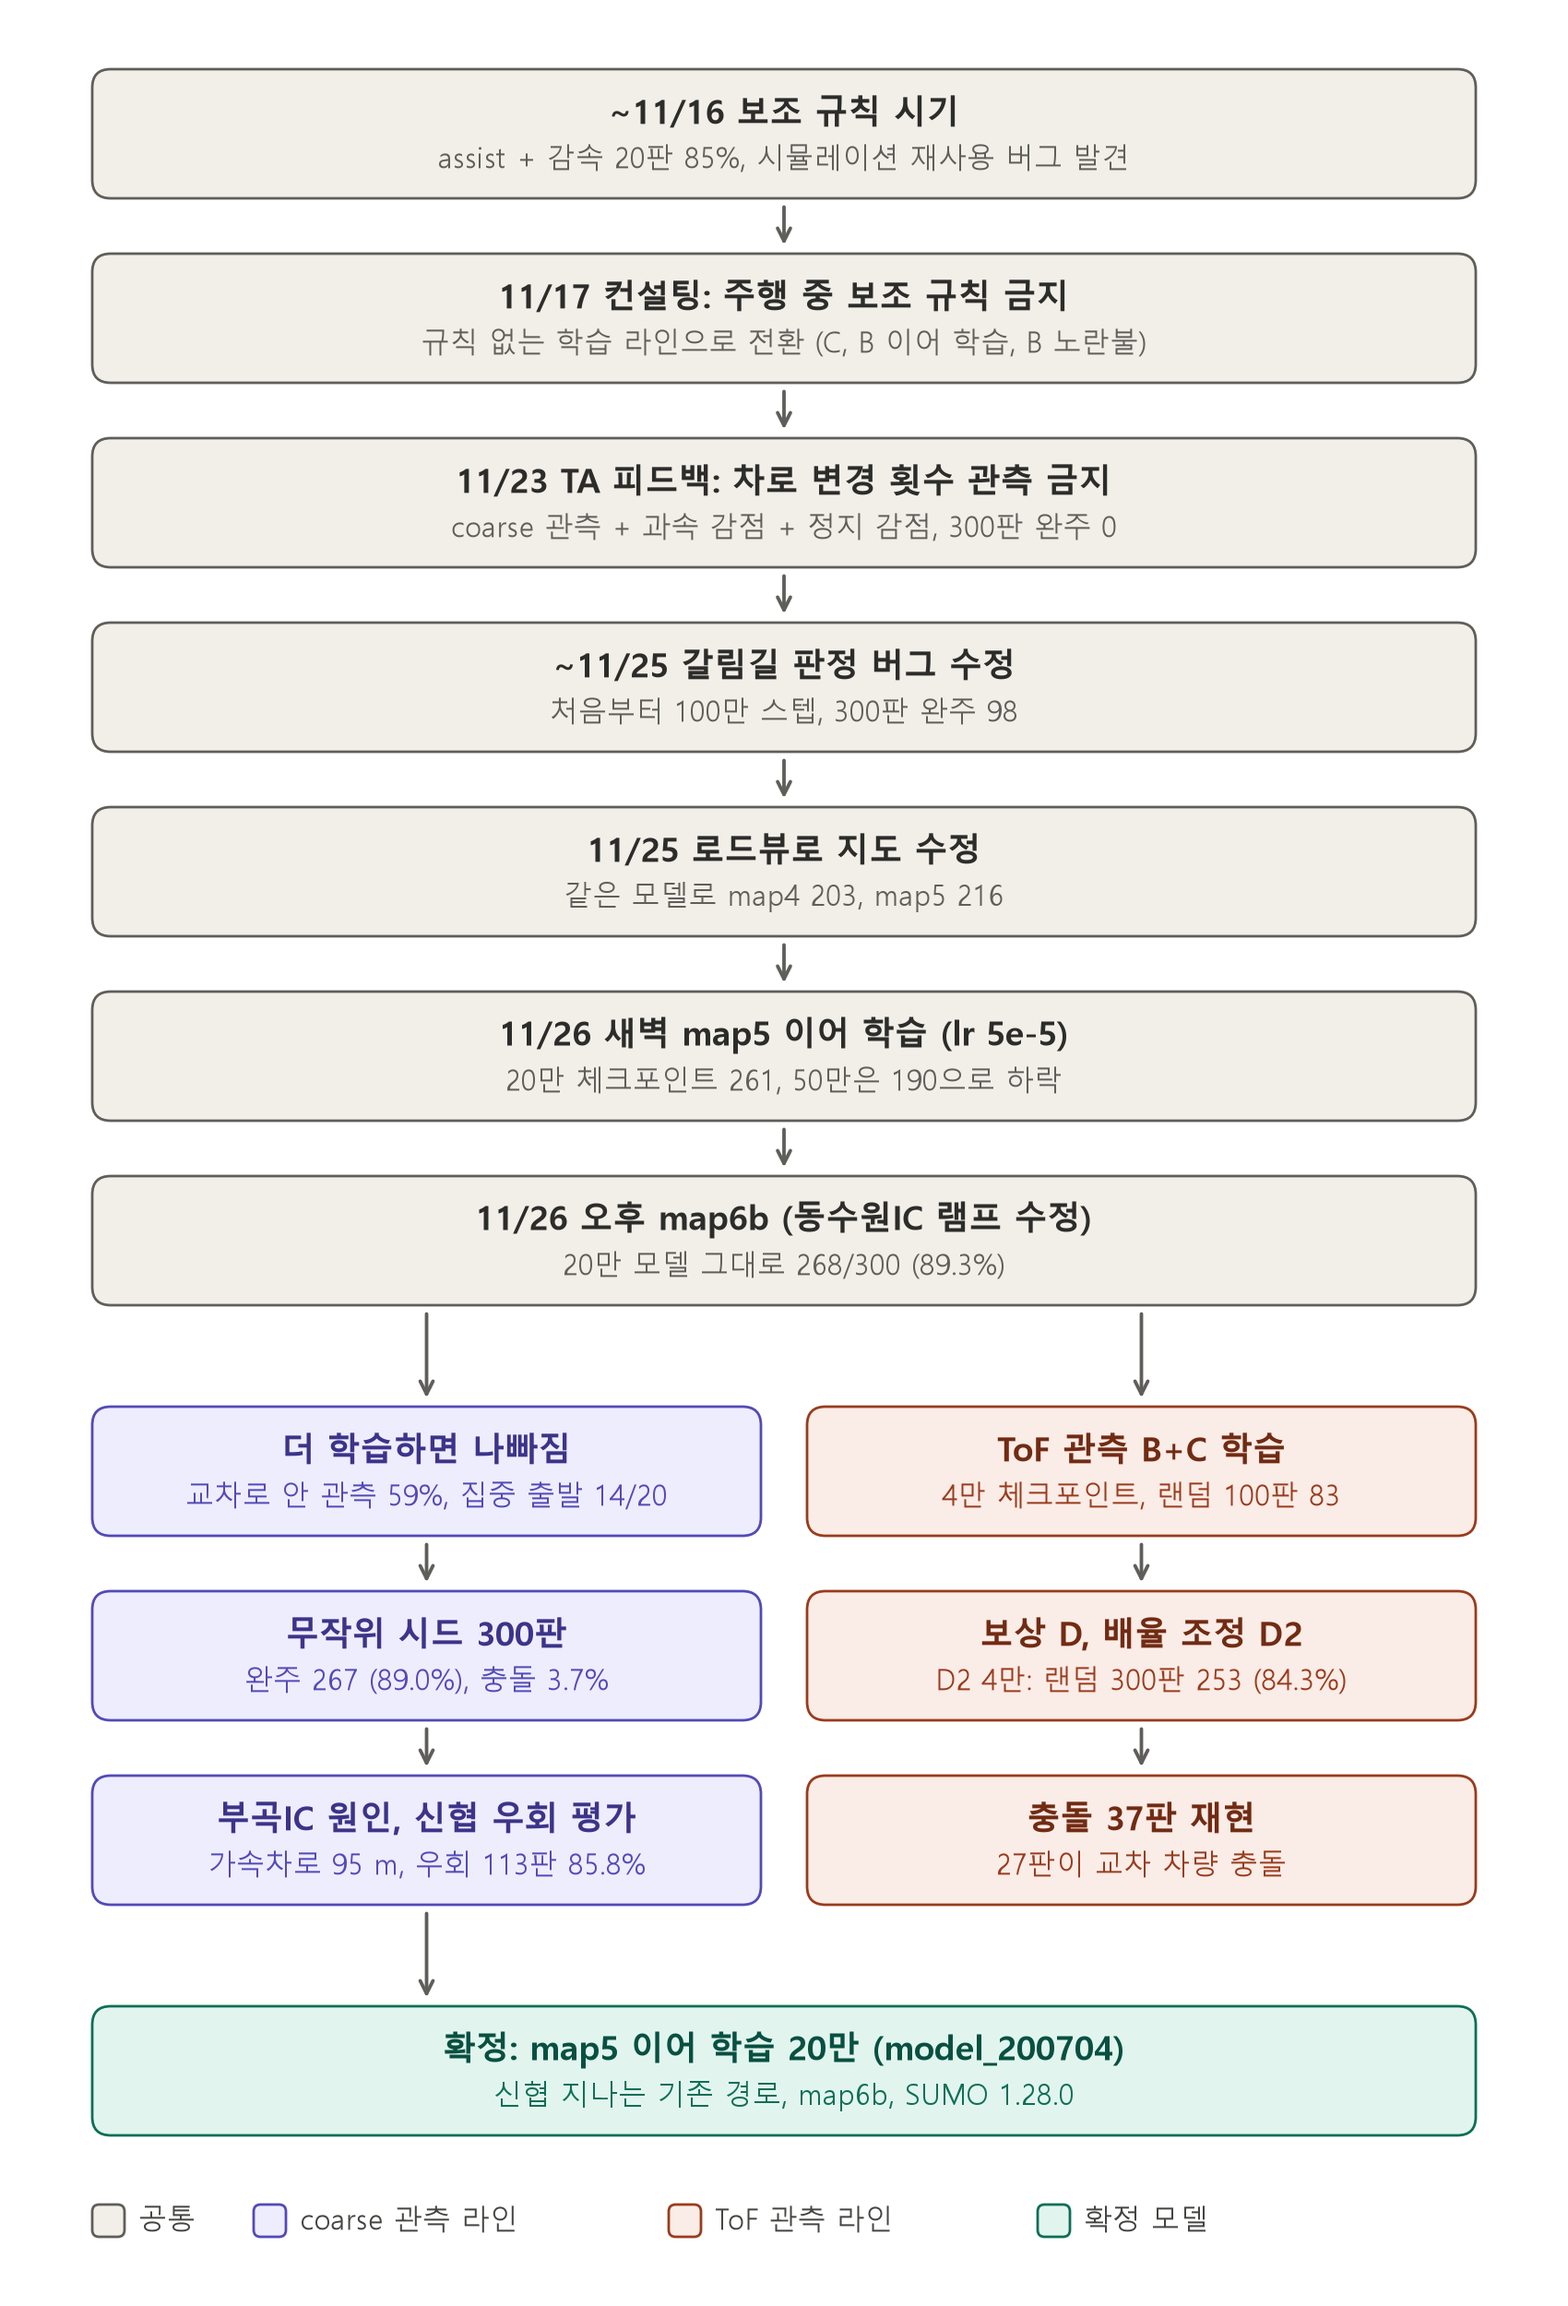
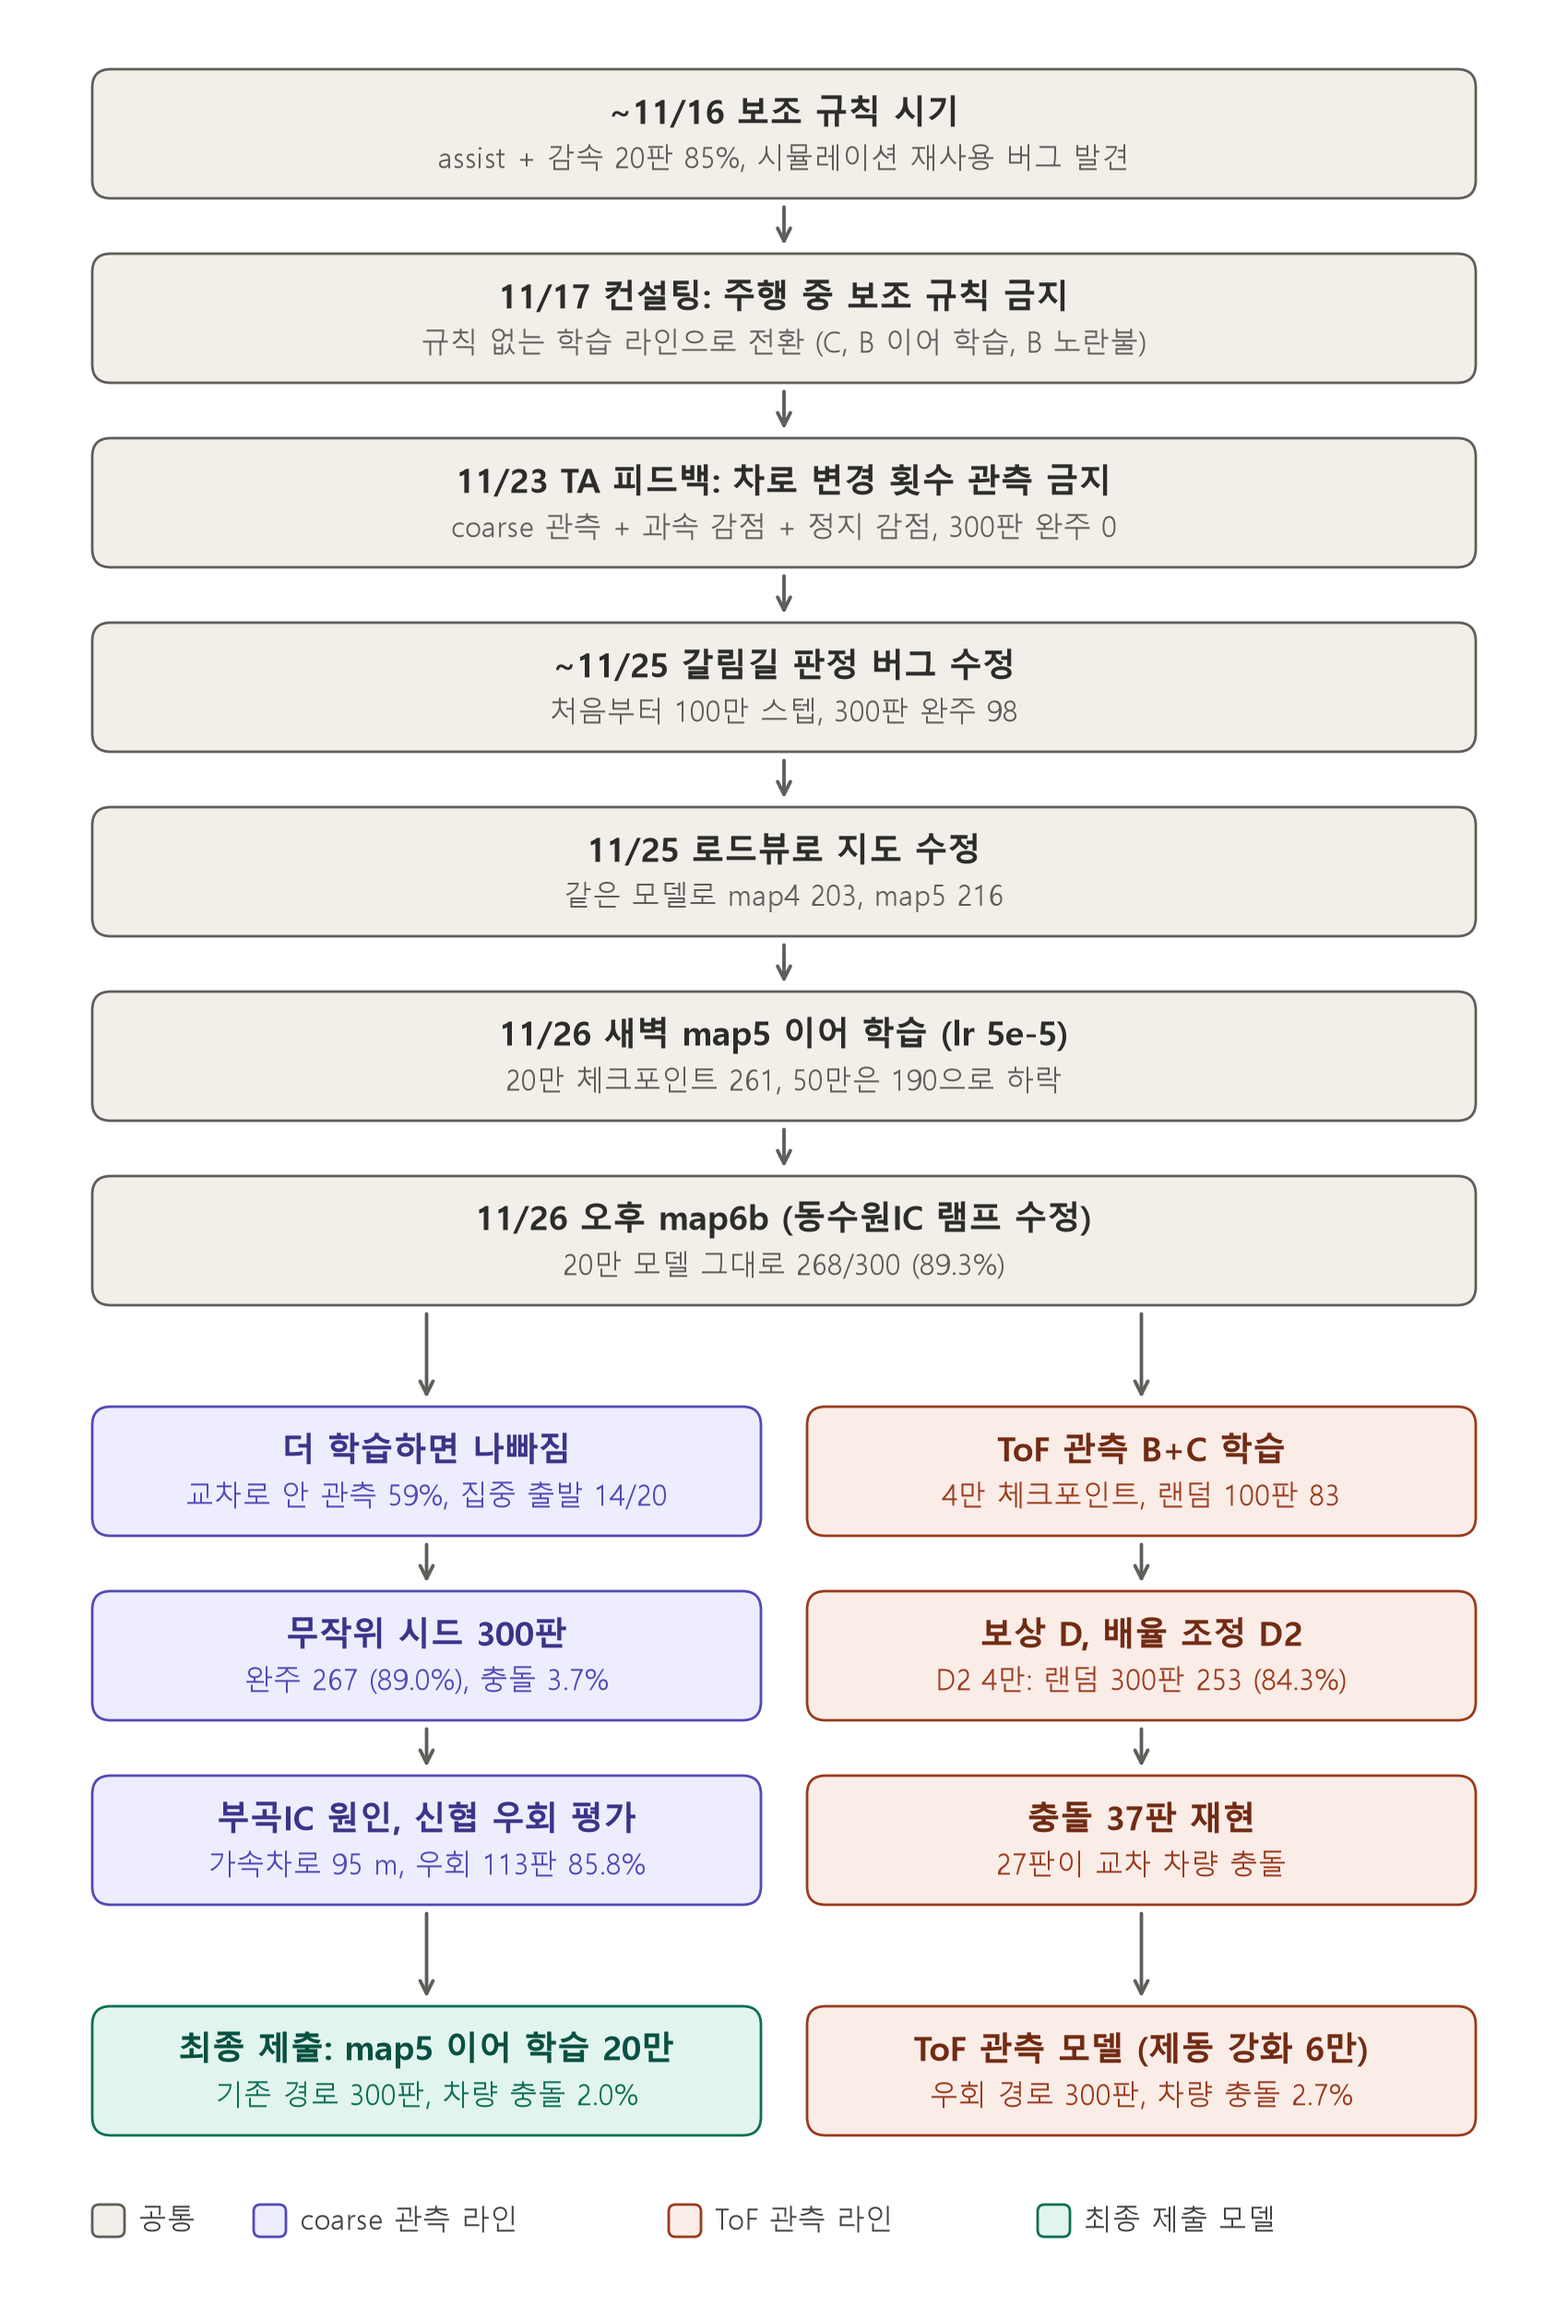
docs: ToF 관측 모델 결과를 방법 칸과 실험 흐름도에 추가
우회 경로 무작위 시드 300판: 완주 278, 차량 충돌 8 (2.7%).
최종 제출 모델과 조건이 다르다는 점을 함께 적음.

Changed region(s): [[0.1247, 0.8424, 0.9665, 0.9672]]

diff --git a/docs/index.html b/docs/index.html
@@ -265,7 +265,7 @@ figure.card img{border-radius:8px;background:#fff}
     <div class="grid g2" style="margin-top:18px">
       <figure class="card">
         <img src="img/flow.png" alt="11월 13일부터 26일까지의 실험 흐름. 보조 규칙 시기, 규칙 없는 학습 전환, 관측 변경, 갈림길 판정 수정, 지도 수정, 이어 학습을 거쳐 확정 모델에 이른다." loading="lazy">
-        <figcaption>실험 흐름. 숫자는 같은 시드 300판 중 완주한 판 수입니다. ToF 관측 라인은 별도로 실험했고 최종 모델로는 쓰지 않았습니다.</figcaption>
+        <figcaption>실험 흐름. 숫자는 300판 중 완주한 판 수입니다. 관측을 두 가지로 설계해 각각 학습했고, 제출한 코드와 데이터는 coarse 관측 모델입니다.</figcaption>
       </figure>
       <div class="card tbl">
         <h3>같은 모델, 지도만 고쳤을 때</h3>
@@ -281,6 +281,11 @@ figure.card img{border-radius:8px;background:#fff}
         </table>
         <p style="font-size:13px;color:var(--muted);margin-top:10px">학습용 PC(SUMO 1.27.1)에서 잰 값입니다. 이어 학습을 더 하면 30만 227, 40만 239, 50만 190으로 떨어졌습니다.</p>
       </div>
+    </div>
+    <div class="card" style="margin-top:18px">
+      <h3>두 번째 접근: ToF 관측 모델</h3>
+      <p class="lead" style="font-size:15px;max-width:none">차로 기준 정보 대신 거리 센서(ToF) 형태의 관측으로도 따로 학습했습니다. 신협오거리를 지나지 않는 우회 경로에서 무작위 시드 300판을 평가해 완주 278판(92.7%), 차량 충돌 8판(2.7%)이 나왔습니다(SUMO 1.28.0). 같은 시드에서 이전 체크포인트는 차량 충돌이 26판(8.7%)이었고, 차간 감점을 키워 더 일찍 감속하도록 이어 학습한 뒤 8판으로 줄었습니다.</p>
+      <p style="font-size:13px;color:var(--muted);margin:8px 0 0">최종 제출 모델과는 관측, 경로, 지도, 평가 시드가 달라 두 숫자는 같은 조건의 비교가 아닙니다. 제출한 코드와 공개 데이터는 coarse 관측 모델로 만들었습니다.</p>
     </div>
   </div>
 </section>
